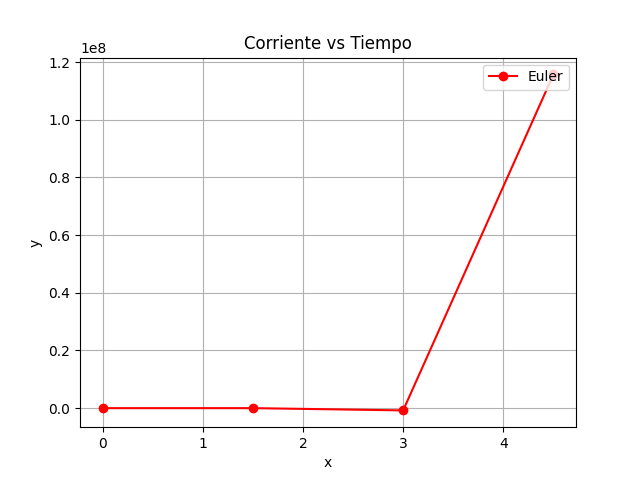
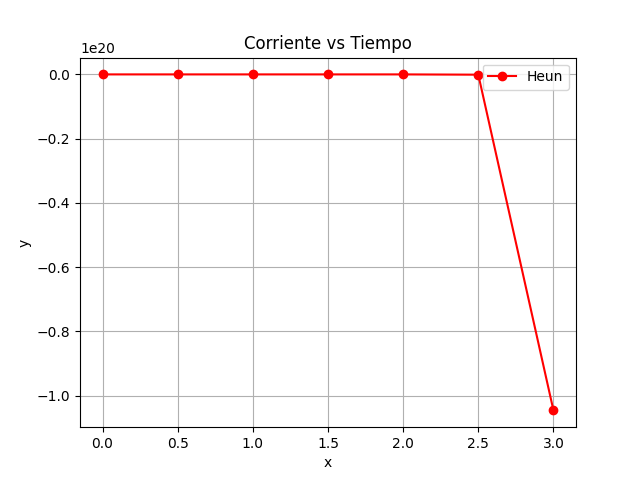
Terminado Heun

diff --git a/phaseTwo/Main.py b/phaseTwo/Main.py
@@ -1,28 +1,43 @@
 # Importación de modulos requeridos para trabajar
 import numpy as np                #Trabajo con matrices
-import matplotlib.pyplot as plt   #Gráficas
+import matplotlib.pyplot as plt   #Graficas
 import pandas as pd               #Manejo de datos
 import sympy as sp                #Matemática simbólica
-from Euler import euler           #Método de Euler
+from Euler import euler           #Metodo de Euler
+from Heun import heun             #Metodo de Heun
+from isode import isopy
 from graphics import graf         #Graficar salida de los métodos
+import scipy as scp
 
 def run():
-#Declaración de funciones y variables a trabajar
+#Declaracion de constantes
+    Ra = 10
+    Ea = 350
+    La = 100e-3
+    kb = 7
+    ki = 5
+    Jm = 80
+    bm = 20
+    Torque = 0
+#Declaracion de funciones y variables a trabajar
     i,w,theta,t = sp.symbols('i w theta t');
     #Corriente de armadura di(t)/dt
-    f = sp.sympify((350/(100*10**(-3))) - (10/(100*10**(-3)))*i - (7/(100*10**(-3)))*w)
+    f = sp.sympify(Ea/La - (Ra/La)*i - (kb/La)*w)
     #aceleracion angular del motor dw/dt
-    g = sp.sympify((5/80)*i - (20/80)*w)
+    g = sp.sympify((ki/Jm)*i - (bm/Jm)*w - Torque/Jm)
     #Velocidad angular del motor dtheta/dt
     h = sp.sympify(w)
 
 
-#Métodos a utilizar
-    f_euler, g_euler,h_euler,t_euler,i_euler=euler([0,3],None,0,0,0,i,w,theta,t,f,g,h,1.5)
+#Metodos a utilizar
+    f_euler,g_euler,h_euler, t_euler=euler([0,3],None,0,0,0,i,w,theta,t,f,g,h,0.5)
+    sol_heun, t_heun = heun([0,3],None,0,0,0,i,w,theta,t,f,g,h,0.5)
+    output=isopy(f,g,h,i,w,theta,t)
+    print(output)
     
 #Escritura en el archivo .xlsx
     #Declaración de los DataFrame
-    df_euler=pd.DataFrame({"ITERACIONES":i_euler,"x":f_euler,"y":g_euler,"z":h_euler})
+    df_euler=pd.DataFrame({"x":f_euler,"y":g_euler,"z":h_euler})
     #Escritura
     with pd.ExcelWriter('Salida.xlsx') as writer:
         df_euler.to_excel(writer, sheet_name="Euler Method", index=False)
@@ -33,5 +48,9 @@ def run():
     graf(t_euler,g_euler,"Euler",path,"Velocidad angular vs Tiempo")
     graf(t_euler,h_euler,"Euler",path,"Posición angular vs Tiempo")
 
+
+    graf(t_heun,[sublst[0] for sublst in sol_heun],"Heun",path,"Corriente vs Tiempo")
+    graf(t_heun,[sublst[1] for sublst in sol_heun],"Heun",path,"Velocidad angular vs Tiempo")
+    graf(t_heun,[sublst[2] for sublst in sol_heun],"Heun",path,"posición angular vs Tiempo")
 if __name__ == "__main__":
     run()

diff --git a/phaseTwo/Heun.py b/phaseTwo/Heun.py
@@ -1,0 +1,42 @@
+#Dependencias del modulo
+import sympy as sp #Manejo de funciones
+#------------------------Entrada y salida del modulo----------------------------
+# Entrada: recorrido                           -->  (dom)
+#          número de divisiones del recorrido  -->  (n) 
+#          condiciones iniciales               -->  (x_init,y_init,z_init) 
+#          variables de las funciones          -->  (x,y,z,t)
+#          funciones                           -->  (f1,f2,f3) 
+#          pasos                               -->  (h)
+
+# Salida: valores de la primera variable       -->  (x_values)
+#         valores variable independiente       -->  (y_values)
+#-------------------------------------------------------------------------------
+def heun(dom,n,x_init,y_init,z_init,x,y,z,t,f1,f2,f3,h):
+#vectores de salida
+    y_values = []  #Soluciones, fila1=x, fila2=y, fila3=z
+    t_values = []  #Valores del tiempo
+
+#Determinacion de pasos y diviciones
+    if h is None:
+        h=(abs(dom[0]-dom[1]))/n
+    elif n is None:
+        n=int((abs(dom[0]- dom[1]))/h)
+
+#Arreglo en los datos del problema
+    y_bg = [x_init,y_init,z_init]                               #Vector valores iniciales
+    t = dom[0]                                                  #Valor inicial del tiempo
+    function = sp.lambdify((x,y,z),[f1,f2,f3],modules='numpy')  #vector de funciones
+    y_values.append(y_bg)                                       #Valor inicial
+    t_values.append(t)                                          #Valor inicial
+
+#Método de Heun
+    for i in range(1,n+1):
+        k1 = function(*(y_values[i-1][0],y_values[i-1][1],y_values[i-1][2]))
+        k2 = function(*(y_values[i-1][0]+k1[0]*h,y_values[i-1][1]+k1[1]*h,y_values[i-1][1]+k1[1]*h))
+        y1_sol = y_values[i-1][0]+(k1[0]+k2[0])*(h/2)                      
+        y2_sol = y_values[i-1][1]+(k1[1]+k2[1])*(h/2)
+        y3_sol = y_values[i-1][2]+(k1[2]+k2[2])*(h/2)
+        y_values.append([y1_sol,y2_sol,y3_sol])
+        t=t+h
+        t_values.append(t)
+    return y_values,t_values

diff --git a/phaseTwo/Euler.py b/phaseTwo/Euler.py
@@ -20,12 +20,10 @@ def euler(dom,n,x_init,y_init,z_init,x,y,z,t,f1,f2,f3,h):
     x_values = []  #Aproximaciones
     y_values = []  #Aproximaciones
     z_values = []  #Aproximaciones 
-    iteration = [] #Iteraciones
 
 #Determinacion de pasos y diviciones
     if h is None:
-        h=(abs(dom[0]-dom[1]))/n
-        print(h)
+        h=float((abs(dom[0]-dom[1]))/n)
     elif n is None:
         n=int((abs(dom[0]- dom[1]))/h)
 
@@ -40,20 +38,19 @@ def euler(dom,n,x_init,y_init,z_init,x,y,z,t,f1,f2,f3,h):
     vector_fuction = sp.lambdify((x,y,z),[f1,f2,f3],modules="numpy")
     vector_bf = [0,0,0]
 #Algoritmo de Euler
-    for i in range(n+2):
+    for i in range(n+1):
     #Algoritmo de Euler
         vector_bf = np.array(vector_bg) + np.array(vector_fuction(*tuple(vector_bf)))*h
     #Se añaden los elementos x_begin y y_begin al array 
         t_values.append(t_begin)
-        x_values.append(vector_bg[0])
-        y_values.append(vector_bg[1])
-        z_values.append(vector_bg[2])
-        iteration.append(i)
-        print(z_values)
+        x_values.append(vector_bf[0])
+        y_values.append(vector_bf[1])
+        z_values.append(vector_bf[2])
 
     #verificacion y actualizacion en las variables:
         t_begin = t_begin + h
         vector_bg[0] = vector_bf[0]
         vector_bg[1] = vector_bf[1]
         vector_bg[2] = vector_bf[2]
-    return x_values, y_values,z_values, t_values, iteration
+        print(z_values)
+    return x_values, y_values,z_values, t_values

diff --git a/phaseTwo/isode.py b/phaseTwo/isode.py
@@ -1,0 +1,16 @@
+from scipy.integrate import solve_ivp
+import numpy as np
+import sympy as sp
+def isopy(f1,f2,f3,x,y,z,t):
+#Ecuaciones differenciales
+    eq1 = sp.Eq(sp.diff(x,t),f1)
+    eq2 = sp.Eq(sp.diff(y,t),f2)
+    eq1 = sp.Eq(sp.diff(z,t),f3)
+    def system(t,u):
+        x,y,z = u
+        da = f1
+        db = f2
+        dc = f3
+    return dx, dydt, dzdt
+    solution = solver_ivp(system, [0,0,0], [0,0,0], t_eval=np.linspace(0,10,100))
+
